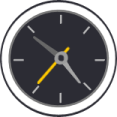
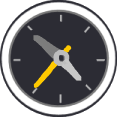
Polishing: bar backings have thin,medium and thick end lines, timer is bolder, and padding for text is clearer for different sizes

diff --git a/src/client/scenes/ProgressBar.ts b/src/client/scenes/ProgressBar.ts
@@ -17,13 +17,14 @@ export default class ProgressBar {
 		scene: Phaser.Scene,
 		icon_name: string,
 		bar_color_name: string,
+		bar_backing_name: string,
 		position_config: any
 	) {
 		this.bar_container = scene.add.container(0, 0);
 		this.bar_ui_container = scene.add.container(0, 0);
 
 		this.bar_back = scene.add
-			.image(0, 0, 'healthbar_back')
+			.image(0, 0, bar_backing_name)
 			.setOrigin(0, 0.5);
 		this.bar = scene.add.image(0, 0, bar_color_name).setOrigin(0, 0.5);
 		this.bar_icon = scene.add.image(0, 0, icon_name).setOrigin(0, 0.5);
@@ -86,6 +87,7 @@ export default class ProgressBar {
 
 	public scaleEntireBar(scalePercent: number): void {
 		this.bar_ui_container.scale *= scalePercent;
+		this.alignTextToBarEnd();
 	}
 
 	public flipBarOnly(): void {
@@ -119,6 +121,17 @@ export default class ProgressBar {
 	public alignTextToBarEnd(): void {
 		// Re-Align the text to the other end of colored bar
 		this.infoText.originX = 1;
-		this.infoText.setX(this.bar.x + this.bar.displayWidth * 0.95);
+		let proportion = 1;
+		if (this.bar_container.scaleX < 0.5) {
+			// Small Size
+			proportion = 0.85;
+		} else if (this.bar_container.scaleX > 1) {
+			// Large Size
+			proportion = 0.98;
+		} else {
+			// Medium Size
+			proportion = 0.95;
+		}
+		this.infoText.setX(this.bar.x + this.bar.displayWidth * proportion);
 	}
 }

diff --git a/src/client/scenes/HUDScene.ts b/src/client/scenes/HUDScene.ts
@@ -42,6 +42,7 @@ export default class HUDScene extends Phaser.Scene {
 			this.scene.get(HUDScene.Name),
 			'heart_icon',
 			'healthbar_green',
+			'bar_backing_medium',
 			{
 				top: 'top+50',
 				left: 'left+20',
@@ -52,6 +53,7 @@ export default class HUDScene extends Phaser.Scene {
 			this.scene.get(HUDScene.Name),
 			'flag_icon_red',
 			'healthbar_red',
+			'bar_backing_thin',
 			{
 				bottom: 'bottom-130',
 				left: 'left+20',
@@ -61,6 +63,7 @@ export default class HUDScene extends Phaser.Scene {
 			this.scene.get(HUDScene.Name),
 			'flag_icon_blue',
 			'healthbar_blue',
+			'bar_backing_thin',
 			{
 				bottom: 'bottom-50',
 				left: 'left+20',
@@ -78,7 +81,8 @@ export default class HUDScene extends Phaser.Scene {
 		this.ResourcesCounter.createBar(
 			this.scene.get(HUDScene.Name),
 			'coin_icon',
-			'healthbar_back',
+			'bar_backing_thick',
+			'bar_backing_thick',
 			{
 				left: 'left+20',
 				top: 'top+130',
@@ -92,7 +96,8 @@ export default class HUDScene extends Phaser.Scene {
 		this.GameTimeCounter.createBar(
 			this.scene.get(HUDScene.Name),
 			'timer_icon',
-			'healthbar_back',
+			'bar_backing_thick',
+			'bar_backing_thick',
 			{
 				centerX: 'center',
 				top: 'top+50',

diff --git a/src/client/scenes/preloader.ts b/src/client/scenes/preloader.ts
@@ -118,7 +118,12 @@ export default class Preloader extends Phaser.Scene {
 		this.load.image('healthbar_red', '../assets/healthbar_red.png');
 		this.load.image('healthbar_blue', '../assets/healthbar_blue.png');
 		this.load.image('healthbar_green', '../assets/healthbar_green.png');
-		this.load.image('healthbar_back', '../assets/healthbar_back.png');
+		this.load.image('bar_backing_thin', '../assets/bar_backing_thin.png');
+		this.load.image(
+			'bar_backing_medium',
+			'../assets/bar_backing_medium.png'
+		);
+		this.load.image('bar_backing_thick', '../assets/bar_backing_thick.png');
 
 		// Icons
 		this.load.image('heart_icon', '../assets/heart_icon.png');
